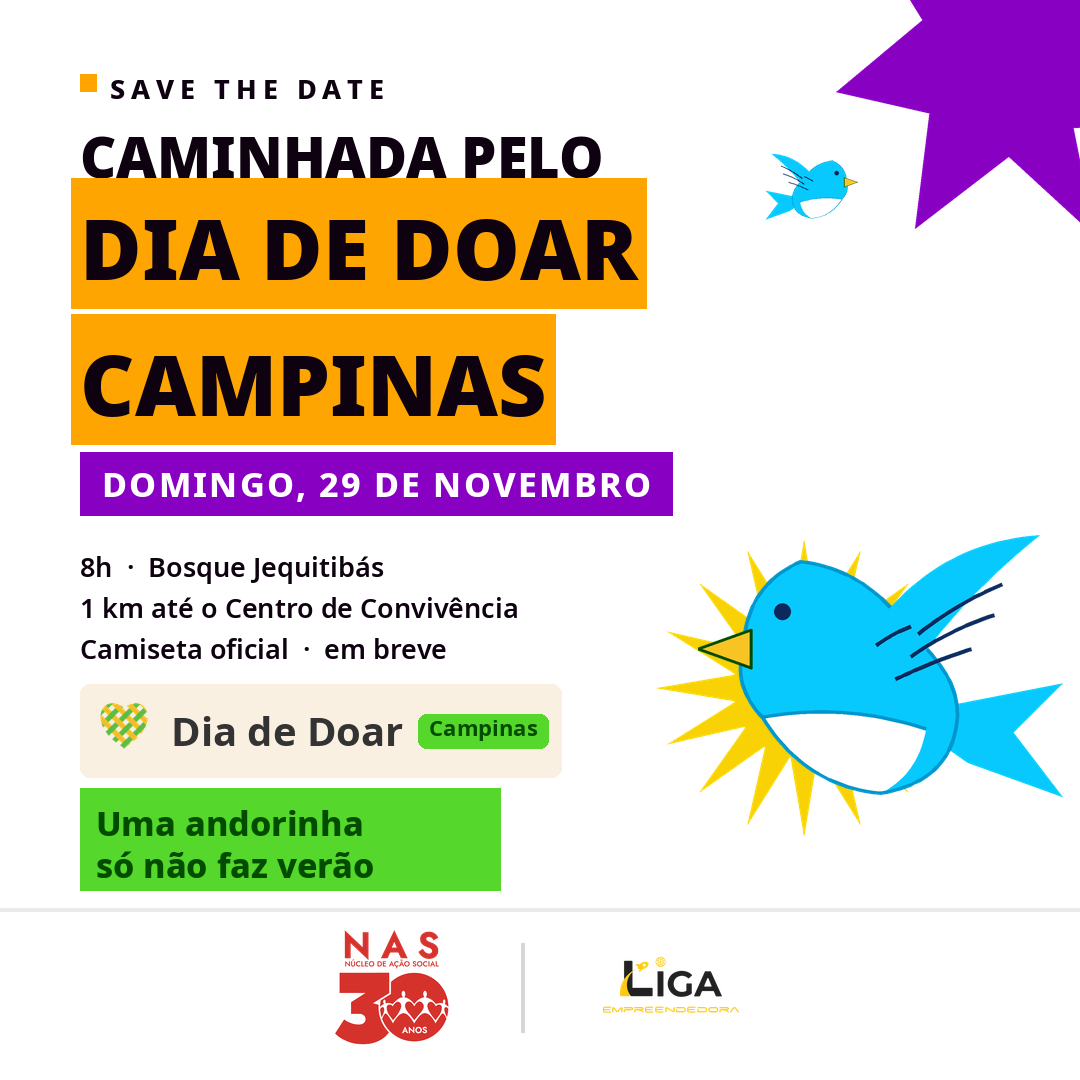
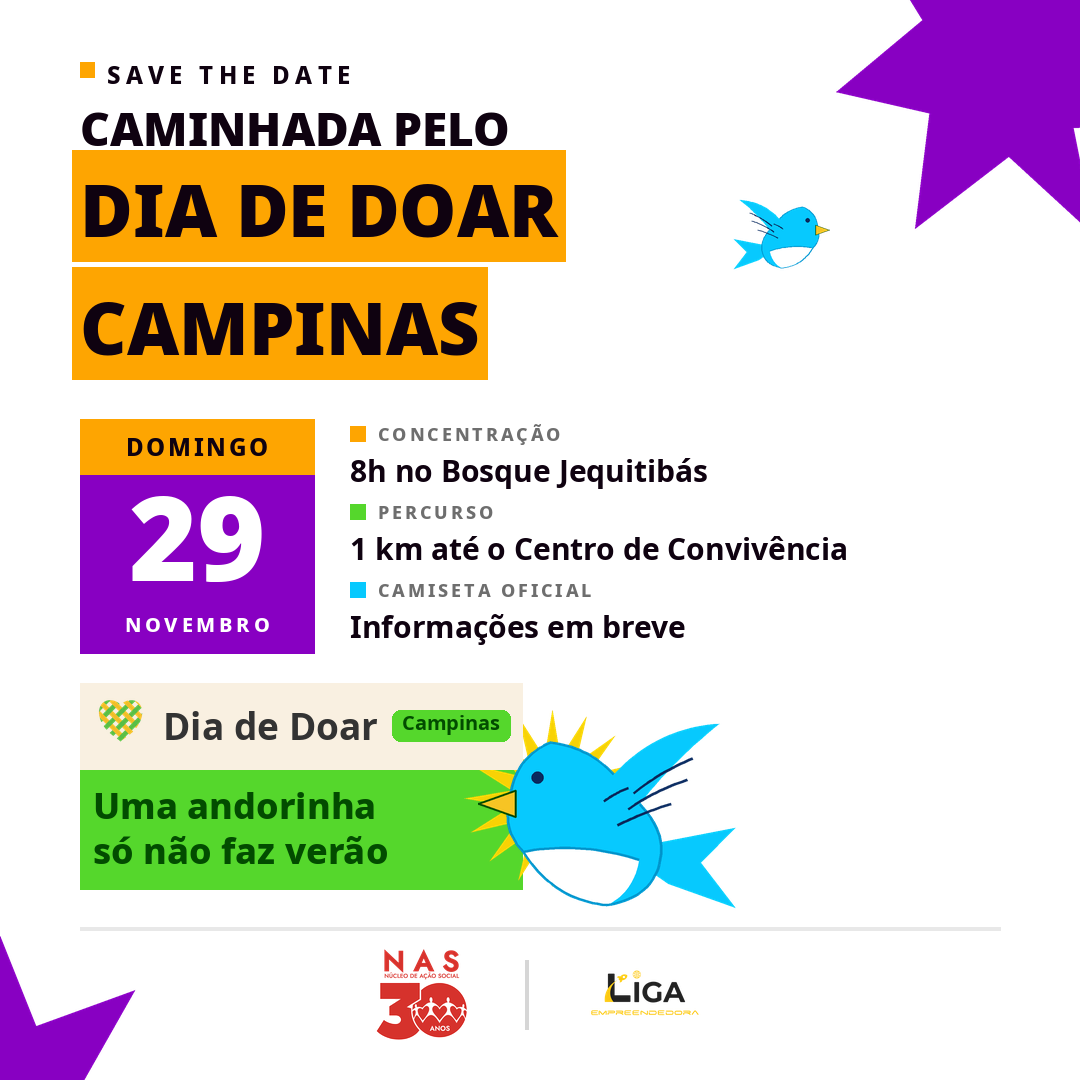
Aplica o novo layout do story ao post de feed
O feed passa a usar o mesmo sistema do story, com folha de calendario para a
data, informacoes praticas em linhas rotuladas e o card do movimento com o sol
e a andorinha saindo pela borda.

O sol agora passa por tras do cabecalho creme do card, entao o selo Campinas
fica limpo nas duas pecas. O README foi atualizado com as decisoes que valem
para feed e story.

diff --git a/nas-liga-dia-de-doar/fontes/gera_posts.py b/nas-liga-dia-de-doar/fontes/gera_posts.py
@@ -98,20 +98,20 @@ def calendario(dr, x, y, lado, dia="29", mes="NOVEMBRO", semana="DOMINGO"):
     M.texto_espacado(dr, (x + (lado - w) / 2, y_mes), mes, f_mes, M.BRANCO, tr)
 
 
-def linha_info(dr, x, y, rotulo_txt, valor, larg_max, cor_marca, tam_val=34):
+def linha_info(dr, x, y, rotulo_txt, valor, larg_max, cor_marca, tam_val=34, esc=1.0):
     """Linha de informação com marcador, rótulo pequeno e valor em destaque."""
-    s = 17
-    dr.rectangle([x, y + 6, x + s, y + 6 + s], fill=cor_marca)
-    f_rot = M.fonte("ExtraBold", 21)
-    M.texto_espacado(dr, (x + s + 14, y), rotulo_txt, f_rot, (110, 110, 110), 3.2)
+    s = 17 * esc
+    dr.rectangle([x, y + 6 * esc, x + s, y + 6 * esc + s], fill=cor_marca)
+    f_rot = M.fonte("ExtraBold", 21 * esc)
+    M.texto_espacado(dr, (x + s + 14 * esc, y), rotulo_txt, f_rot, (110, 110, 110), 3.2 * esc)
 
     tam = tam_val
-    while tam > 22:
+    while tam > 20:
         f_val = M.fonte("Bold", tam)
         if dr.textlength(valor, font=f_val) <= larg_max:
             break
         tam -= 1
-    dr.text((x, y + 31), valor, font=f_val, fill=M.PRETO)
+    dr.text((x, y + 31 * esc), valor, font=f_val, fill=M.PRETO)
 
 
 def card_movimento(im, dr, x, y, alt_logo=76, tam_tag=46):
@@ -139,50 +139,69 @@ def post_feed():
     MG = 80
     im = Image.new("RGBA", (W, H), (255, 255, 255, 255))
 
-    # ---- decoração: roxo no alto à direita, andorinha e sol embaixo à direita
+    # ---- decoração de canto, mesma diagonal do story
     im.alpha_composite(M.estrela_roxa(360), (836, -124))
-    im.alpha_composite(M.andorinha(96, espelhar=True), (762, 150))
-    im.alpha_composite(M.sol(296), (656, 540))
-    im.alpha_composite(M.andorinha(380), (698, 520))
+    im.alpha_composite(M.estrela_roxa(300), (-150, 936))
+    im.alpha_composite(M.andorinha(100, espelhar=True), (730, 196))
 
     dr = ImageDraw.Draw(im)
 
-    # ---- rótulo
-    rotulo(im, dr, MG, 70, "SAVE THE DATE", 27)
-
-    # ---- título
-    f_med = M.fonte("Black", 56)
-    f_big = M.fonte("Black", 84)
-    dr.text((MG, 118), "CAMINHADA PELO", font=f_med, fill=M.PRETO)
-    y = 190
+    # ---- 1. título
+    rotulo(im, dr, MG, 58, "SAVE THE DATE", 24)
+    f_med = M.fonte("Black", 46)
+    f_big = M.fonte("Black", 72)
+    dr.text((MG, 96), "CAMINHADA PELO", font=f_med, fill=M.PRETO)
+    y = 160
     _, h = M.faixa_titulo(im, dr, (MG, y), "DIA DE DOAR", f_big)
     y += h + 6
-    M.faixa_titulo(im, dr, (MG, y), "CAMPINAS", f_big)
+    _, h = M.faixa_titulo(im, dr, (MG, y), "CAMPINAS", f_big)
+    y_fim_titulo = y + h
 
-    # ---- data em faixa roxa
-    y = 452
-    f_data = M.fonte("ExtraBold", 34)
-    txt = "DOMINGO, 29 DE NOVEMBRO"
-    w = M.largura_espacada(dr, txt, f_data, 2.2)
-    asc, desc = f_data.getmetrics()
-    dr.rectangle([MG, y, MG + w + 44, y + asc + desc + 16], fill=M.ROXO)
-    M.texto_espacado(dr, (MG + 22, y + 8), txt, f_data, (255, 255, 255), 2.2)
+    # ---- 2. calendário e informações lado a lado
+    y = int(y_fim_titulo + 30)
+    LADO = 234
+    calendario(dr, MG, y, LADO)
 
-    # ---- informações
-    bloco_info(dr, MG, 548, [
-        "8h  ·  Bosque Jequitibás",
-        "1 km até o Centro de Convivência",
-        "Camiseta oficial  ·  em breve",
-    ], tam=27, lh=1.52)
+    x_info = MG + LADO + 36
+    larg_info = W - x_info - 60
+    passo = LADO / 3
+    esc = 0.9
+    linha_info(dr, x_info, y + 2, "CONCENTRAÇÃO", "8h no Bosque Jequitibás",
+               larg_info, M.LARANJA, tam_val=30, esc=esc)
+    linha_info(dr, x_info, y + 2 + passo, "PERCURSO", "1 km até o Centro de Convivência",
+               larg_info, M.VERDE, tam_val=30, esc=esc)
+    linha_info(dr, x_info, y + 2 + passo * 2, "CAMISETA OFICIAL", "Informações em breve",
+               larg_info, M.CIANO, tam_val=30, esc=esc)
 
-    # ---- logo do movimento e tagline
-    logo = M.logo_dia_de_doar(66, fundo=M.CREME)
-    im.alpha_composite(logo, (MG, 684))
-    caixa_tagline(im, dr, MG, 788, 420, tam=34)
+    # ---- 3. card do movimento, com sol e andorinha saindo dele
+    y_card = int(y + LADO + 30)
+    ALT_LOGO = 60
+    w_card, h_card = card_movimento(im, dr, MG, y_card, alt_logo=ALT_LOGO, tam_tag=36)
+    logo_card = M.logo_dia_de_doar(ALT_LOGO)
+    h_cab = logo_card.size[1]
+    x_borda = MG + w_card
 
-    # ---- assinatura
-    dr.rectangle([0, 908, W, 911], fill=(234, 234, 234))
-    assinatura(im, dr, W / 2, 930, alt_logo=116, label=False)
+    ave = M.andorinha(268)
+    esc_ave = ave.size[0] / 100
+    fundo_ave = ave.getchannel("A").getbbox()[3]
+    x_ave = int(x_borda - 58 * ave.size[0] / 356)
+    # cabeça na altura da tagline, como no story
+    cab_y = y_card + h_cab + 30
+    y_ave = int(cab_y - 32 * esc_ave)
+    cab_x = x_ave + 28 * esc_ave
+    SOL = int(236 * ave.size[0] / 356)
+    im.alpha_composite(M.sol(SOL), (int(cab_x - SOL / 2), int(cab_y - SOL / 2)))
+
+    # o sol passa por trás do cabeçalho creme, então o selo Campinas fica limpo
+    dr.rectangle([MG, y_card, x_borda, y_card + h_cab], fill=M.CREME)
+    im.alpha_composite(logo_card, (MG, y_card))
+    im.alpha_composite(ave, (x_ave, y_ave))
+    y_fim_ave = y_ave + fundo_ave
+
+    # ---- 4. assinatura
+    y_ass = int(max(y_card + h_card + 28, y_fim_ave + 16))
+    dr.rectangle([MG, y_ass, W - MG, y_ass + 3], fill=(232, 232, 232))
+    assinatura(im, dr, W / 2, y_ass + 22, alt_logo=92, label=False)
 
     return im.convert("RGB")
 

diff --git a/nas-liga-dia-de-doar/README.md b/nas-liga-dia-de-doar/README.md
@@ -49,15 +49,15 @@ A integração das duas identidades funciona porque o amarelo da Liga, `#FDC815`
 
 **O título usa faixa sólida atrás do texto**, que é o recurso de destaque da identidade original do evento. Mantivemos as duas linhas mais importantes, "DIA DE DOAR" e "CAMPINAS", sobre laranja, e deixamos "CAMINHADA PELO" sem faixa para criar hierarquia.
 
-**A data ganhou faixa roxa.** No material original o roxo aparece como forma geométrica decorativa. Aqui ele passa a carregar informação, porque save the date precisa que a data seja o segundo elemento mais visível da peça, logo depois do nome do evento.
-
 **A assinatura fica isolada no rodapé**, separada por um filete e sobre branco. Em peça com duas organizações, assinatura disputando espaço com ilustração gera a leitura de patrocínio em vez de realização conjunta.
 
-**No story a data vira uma folha de calendário**, com cabeçalho laranja para o dia da semana e corpo roxo para o dia e o mês. Ao lado dela ficam as três informações práticas, cada uma com um rótulo pequeno e o valor em destaque, marcadas com as cores da paleta. Assim a pessoa lê a data de longe e os detalhes de perto.
+**Feed e story seguem o mesmo sistema**, com quatro blocos na mesma ordem. Primeiro o título, depois o calendário com as informações, depois o card do movimento e por fim a assinatura. Quem vê uma peça reconhece a outra na hora.
 
-**O card do movimento repete a composição da arte original**, logo do Dia de Doar sobre creme e tagline sobre verde, com o sol e a andorinha saindo pela borda direita. É a referência visual mais reconhecível da campanha em Campinas.
+**A data vira uma folha de calendário**, com cabeçalho laranja para o dia da semana e corpo roxo para o dia e o mês. Ao lado dela ficam as três informações práticas, cada uma com um rótulo pequeno e o valor em destaque, marcadas com as cores da paleta. Assim a pessoa lê a data de longe e os detalhes de perto.
 
-**O story não tem links.** Link escrito em imagem de story não é clicável, ocupa espaço e disputa atenção com a assinatura. Se for preciso direcionar para um site, use a figurinha de link do próprio Instagram, posicionada na área livre abaixo da assinatura.
+**O card do movimento repete a composição da arte original**, logo do Dia de Doar sobre creme e tagline sobre verde, com o sol e a andorinha saindo pela borda direita. É a referência visual mais reconhecível da campanha em Campinas. O sol passa por trás do cabeçalho creme, então o selo Campinas fica sempre limpo.
+
+**As peças não têm links.** Link escrito em imagem não é clicável, ocupa espaço e disputa atenção com a assinatura. No feed o endereço vai na legenda. No story, use a figurinha de link do próprio Instagram, posicionada na área livre abaixo da assinatura.
 
 **O story respeita as zonas de segurança** do Instagram. O texto começa em 236 pixels e o último elemento de conteúdo termina em 1662, deixando a base livre para a barra de resposta. As formas roxas e a andorinha pequena ficam nos cantos, só como decoração.
 
